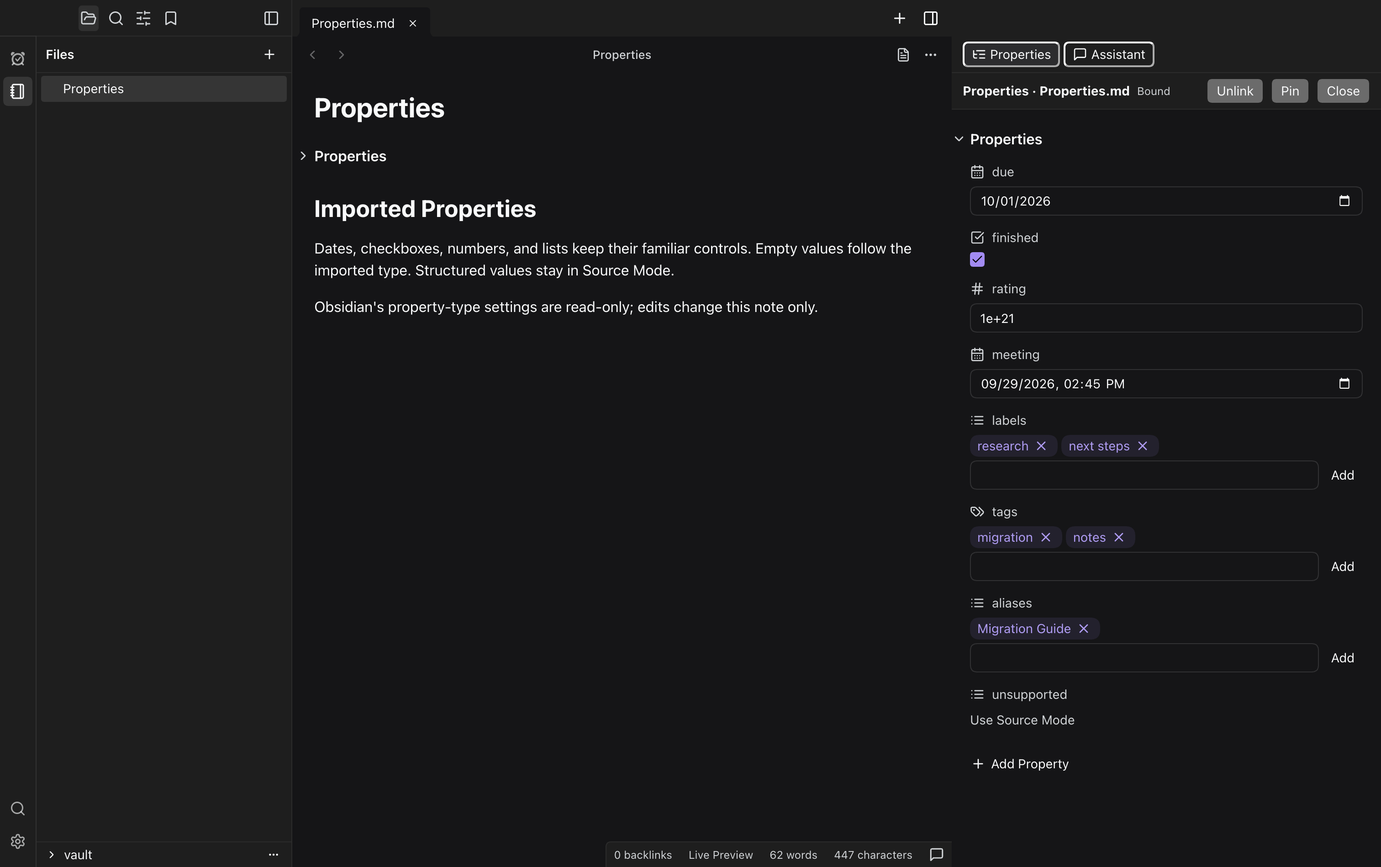
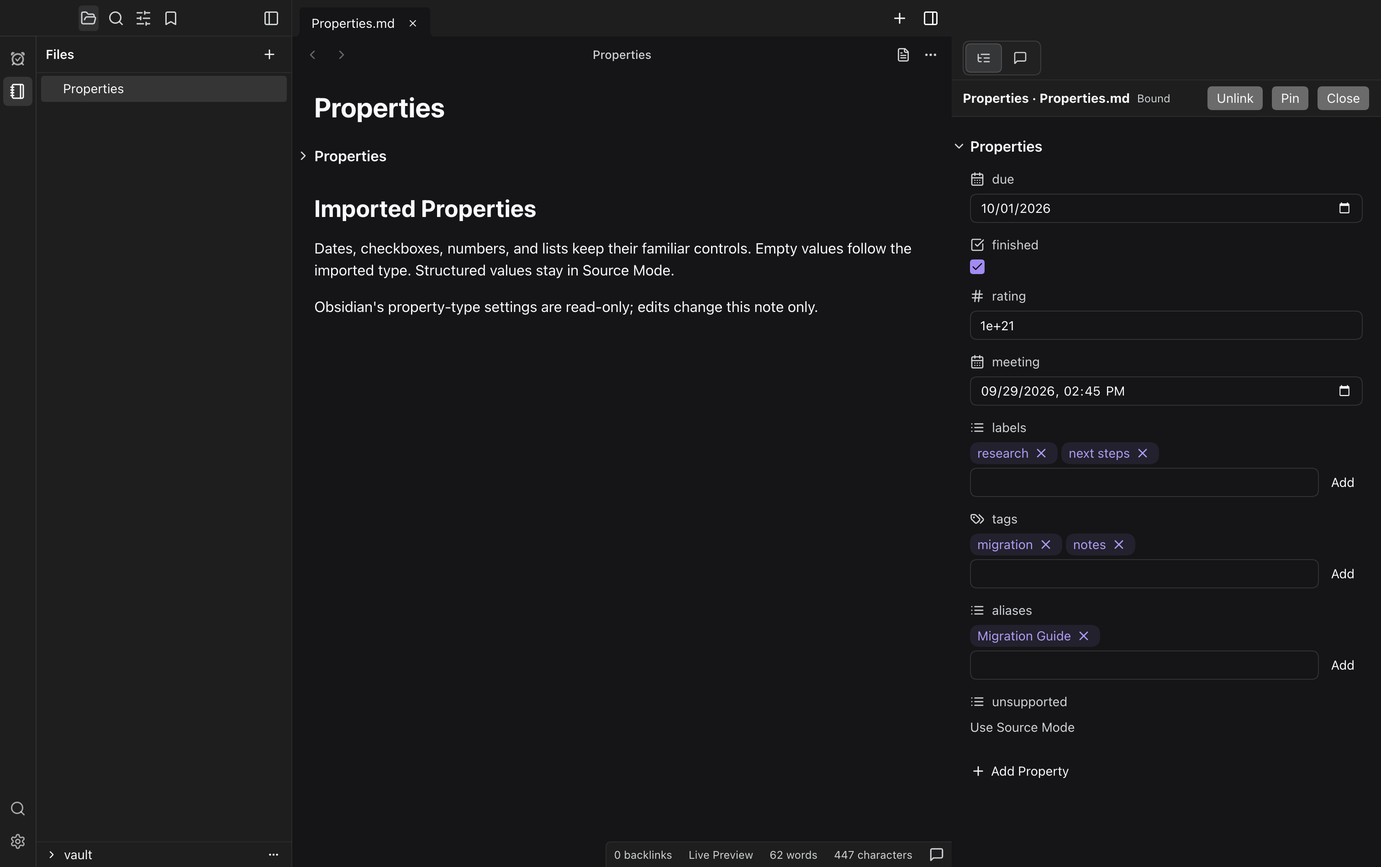
docs(tocktutor): refresh sidebar and loaded Reader captures

diff --git a/.agents/uiux/tocktutor/tocktutor.html b/.agents/uiux/tocktutor/tocktutor.html
@@ -151,7 +151,7 @@
     <div class="header-inner">
       <p class="eyebrow">Visual Design Audit · 66 Captures</p>
       <h1>TockTutor and Obsidian</h1>
-      <p class="intro">TockTutor screenshots were refreshed from the source-built Desktop at <code>3c579a86</code> on September 24, 2026; 23 note-facing images were recaptured after the Live Preview correction at <code>81f533aa</code>; 21 Live Preview images were retaken with purple links and task checks, readable list numbers, and 16px checkbox glyphs at <code>02e96f0e</code>. The Main Workspace and Source Mode images were retaken from a source-built Desktop working tree with Back and Forward in the note header below the tabs. The new lower-note pair shows Data, Code and Notes, and Small Heading in both apps. Assistant and Web Viewer captures remain from the prior batch; the supplemental Reader View image remains from an earlier capture because its focused retry stayed loading. Earlier Obsidian 1.13.7 reference images are unchanged except for the focused Image Viewer, Image Resizing, and Imported Property Controls retakes recorded in the proof. Note-based surfaces use the shared <a href="comparison.md"><code>comparison.md</code></a> content. Older screenshots predate the filename change. The refreshed TockTutor note menu shows the current filename; attachments use <code>Notes/Welcome.md</code>, and Base and Canvas use the same <a href="../../../plugins/tocktutor/parity/fixtures/vault/">parity fixture files</a>. Search uses <code>Markdown</code> in both apps. The assistant pair uses empty conversations beside the same note, with Claudian 2.3.0 in Obsidian. Product-specific controls and catalogs remain genuine, not fabricated matches. See the <a href="content-alignment.md">capture proof and limitations</a>. Click an image for full resolution.</p>
+      <p class="intro">TockTutor screenshots were refreshed from the source-built Desktop at <code>3c579a86</code> on September 24, 2026; 23 note-facing images were recaptured after the Live Preview correction at <code>81f533aa</code>; 21 Live Preview images were retaken with purple links and task checks, readable list numbers, and 16px checkbox glyphs at <code>02e96f0e</code>. The Main Workspace and Source Mode images were retaken from a source-built Desktop working tree with Back and Forward in the note header below the tabs. The new lower-note pair shows Data, Code and Notes, and Small Heading in both apps. Assistant and ordinary Web Viewer captures remain from the prior batch; the supplemental Reader View image was refreshed on October 1 with its article loaded and the corrected Live Preview paragraph visible. Earlier Obsidian 1.13.7 reference images are unchanged except for the focused Image Viewer, Image Resizing, and Imported Property Controls retakes recorded in the proof. Note-based surfaces use the shared <a href="comparison.md"><code>comparison.md</code></a> content. Older screenshots predate the filename change. The refreshed TockTutor note menu shows the current filename; attachments use <code>Notes/Welcome.md</code>, and Base and Canvas use the same <a href="../../../plugins/tocktutor/parity/fixtures/vault/">parity fixture files</a>. Search uses <code>Markdown</code> in both apps. The assistant pair uses empty conversations beside the same note, with Claudian 2.3.0 in Obsidian. Product-specific controls and catalogs remain genuine, not fabricated matches. See the <a href="content-alignment.md">capture proof and limitations</a>. Click an image for full resolution.</p>
       <p class="intro">September 29 additions: six source-built Desktop captures cover the image viewer, image resizing, Mermaid Reading and Live Preview, diagram editing, and imported property controls. These use separate <a href="migration-fixtures/Viewer.md">image-viewer</a>, <a href="migration-fixtures/Images.md">image-resizing</a>, <a href="migration-fixtures/Diagrams.md">diagram</a>, and <a href="migration-fixtures/Properties.md">property</a> fixtures; Image Viewer and Image Resizing pair the same Potala Palace photo; Diagram Editing and Imported Property Controls pair the same saved notes in TockTutor and installed Obsidian 1.13.7. The remaining two additions are TockTutor feature evidence, not matched Obsidian comparisons. See the <a href="../../../.beads/reports/2026-09-29-tocktutor-migration-review.md">migration review</a> and <a href="../../../.beads/reports/2026-09-30-tocktutor-image-alignment-and-diagram-reference.md">layout and diagram proof</a>, and <a href="../../../.beads/reports/2026-10-01-tocktutor-imported-properties-reference.md">imported property reference proof</a>. October 1 retake: Imported Property Controls now shows Properties beside the full-height note, with a fresh Obsidian comparison; the duplicate sidebar surface was removed. See the <a href="../../../.beads/reports/2026-10-01-tocktutor-imported-properties-retake.md">pair retake proof</a>.</p>
       <div class="capture-standard">1512 × 949 CSS pixels · 2× scale · 3024 × 1898 output · Built-in Dark Theme · No Active Skin</div>
       <div class="legend" aria-label="Comparison legend">
@@ -376,7 +376,7 @@
     </section>
 
     <section class="surface" id="web-viewer">
-      <p class="section-number">Surface 24</p><h2>Web Viewer</h2><p class="section-note">Both viewers open https://example.com/ and show Example Domain. TockTutor retains its isolated browsing and clipping panel; Obsidian uses its built-in Web Viewer. The supplemental TockTutor Reader View image is an earlier capture: Reader View stayed loading during this correction’s capture and focused retry.</p>
+      <p class="section-number">Surface 24</p><h2>Web Viewer</h2><p class="section-note">Both viewers open https://example.com/ and show Example Domain. TockTutor retains its isolated browsing and clipping panel; Obsidian uses its built-in Web Viewer. The <a href="screenshots/tocktutor-web-viewer-reader.png">current supplemental Reader View capture</a> shows the loaded article, enabled Page View control, and corrected Live Preview paragraph.</p>
       <div class="comparison">
         <figure class="tocktutor"><figcaption><span class="caption-title">TockTutor · Web Viewer</span><span class="badge">Current</span></figcaption><a class="screenshot-link" href="screenshots/tocktutor-web-viewer.png"><img src="screenshots/tocktutor-web-viewer.png" alt="TockTutor Web Viewer"></a></figure>
         <figure class="obsidian"><figcaption><span class="caption-title">Obsidian · Web Viewer</span><span class="badge">Reference</span></figcaption><a class="screenshot-link" href="screenshots/obsidian-web-viewer.png"><img src="screenshots/obsidian-web-viewer.png" alt="Obsidian Web Viewer with a local fixture page"></a></figure>
@@ -418,15 +418,15 @@
     </section>
 
     <section class="surface" id="imported-properties">
-      <p class="section-number">Surface 29</p><h2>Imported Property Controls</h2><p class="section-note">Properties now sits beside the full-height note in the shared right sidebar, with Properties and Assistant choices. The linked view follows the note and provides date, checkbox, exponent-form number, local date-time, list, tag, and alias controls. Structured YAML is labeled Use Source Mode rather than flattened. Both fresh captures reopen the identical saved note and imported types, with the duplicate in-note Properties group collapsed and each sidebar widened to 470 CSS pixels. Installed Obsidian keeps the structured value as an object with its native Type mismatch, expected Text warning; the controls and presentation are not identical.</p>
-      <p class="fixture-proof"><strong>Retake Proof:</strong> Reopened the previously verified 447-byte saved <code>Properties.md</code> and copied <code>.obsidian/types.json</code> in fresh isolated vaults. All eight rows are visible. Note bytes and the property-type registry remained unchanged; no note edits or new save test were performed during this retake.</p>
+      <p class="section-number">Surface 29</p><h2>Imported Property Controls</h2><p class="section-note">Properties now sits beside the full-height note in the shared right sidebar, with a compact icon-only Properties and Assistant toggle. The linked view follows the note and provides date, checkbox, exponent-form number, local date-time, list, tag, and alias controls. Structured YAML is labeled Use Source Mode rather than flattened. Both fresh captures reopen the identical saved note and imported types, with the duplicate in-note Properties group collapsed and each sidebar widened to 470 CSS pixels. Installed Obsidian keeps the structured value as an object with its native Type mismatch, expected Text warning; the controls and presentation are not identical.</p>
+      <p class="fixture-proof"><strong>Retake Proof:</strong> Reopened the previously verified 447-byte saved <code>Properties.md</code> and copied <code>.obsidian/types.json</code> in fresh isolated vaults. All eight rows are visible. Note bytes and the property-type registry remained unchanged. TockTutor now uses the already verified <a href="../../../.beads/reports/2026-10-01-tocktutor-sidebar-toggle.md">segmented-toggle capture</a>; no new note edits, save test, or Obsidian capture were performed for this gallery update.</p>
       <div class="comparison">
-        <figure class="tocktutor"><figcaption><span class="caption-title">TockTutor · Imported Properties</span><span class="badge">Current</span></figcaption><a class="screenshot-link" href="screenshots/tocktutor-imported-properties.png"><img loading="lazy" src="screenshots/tocktutor-imported-properties.png" alt="TockTutor Properties in the shared right sidebar beside the full-height note, with date, checkbox, exponent-form number, date-time, list, tag, alias, and Source Mode fallback controls"></a></figure>
+        <figure class="tocktutor"><figcaption><span class="caption-title">TockTutor · Imported Properties</span><span class="badge">Current</span></figcaption><a class="screenshot-link" href="screenshots/tocktutor-imported-properties.png"><img loading="lazy" src="screenshots/tocktutor-imported-properties.png" alt="TockTutor compact Properties and Assistant toggle above the shared right sidebar beside the full-height note, with date, checkbox, exponent-form number, date-time, list, tag, alias, and Source Mode fallback controls"></a></figure>
         <figure class="obsidian"><figcaption><span class="caption-title">Obsidian · Imported Properties</span><span class="badge">Reference</span></figcaption><a class="screenshot-link" href="screenshots/obsidian-imported-properties.png"><img loading="lazy" src="screenshots/obsidian-imported-properties.png" alt="Installed Obsidian Live Preview with the same saved note and File properties sidebar showing the date, checked checkbox, exponent-form number, date-time, lists, tags, alias, and structured-value warning"></a></figure>
       </div>
     </section>
 
-    <p class="footer">All screenshots use 1512 × 949 CSS pixels at 2× scale. Historical comparisons and the earlier Reader View capture retain their recorded provenance. Image Viewer, Image Resizing, Diagram Editing, and Imported Property Controls have same-content installed Obsidian references; the remaining two September 29 additions stay TockTutor-only feature evidence. Imported Property Controls was retaken on October 1 in both apps; the gallery ends at Surface 29. Closest Reference and Not Applicable labels do not imply missing product capability.</p>
+    <p class="footer">All screenshots use 1512 × 949 CSS pixels at 2× scale. Historical comparisons retain their recorded provenance; the supplemental Reader View capture is current. Image Viewer, Image Resizing, Diagram Editing, and Imported Property Controls have same-content installed Obsidian references; the remaining two September 29 additions stay TockTutor-only feature evidence. Imported Property Controls was retaken on October 1 in both apps; the gallery ends at Surface 29. Closest Reference and Not Applicable labels do not imply missing product capability.</p>
   </main>
 </body>
 </html>

diff --git a/tests/tocktutor-gallery.test.ts b/tests/tocktutor-gallery.test.ts
@@ -205,7 +205,8 @@ test('pairs Imported Property Controls with genuine Obsidian and the identical s
   assert.equal(refresh.samePropertyTypes, true)
   assert.equal(refresh.reusesExistingBuild, true)
   const current = proof.captures['tocktutor-imported-properties.png']
-  assert.equal(current.sourceCommit, refresh.sourceCommit)
+  assert.equal(current.sourceCommit, proof.sidebarToggleRefresh.sourceCommit)
+  assert.equal(current.sha256, proof.sidebarToggleRefresh.sourceCandidateSha256)
   assert.equal(current.visibleState.rightSidebar, true)
   assert.equal(current.visibleState.fullHeightNote, true)
   assert.equal(current.visibleState.rootColorScheme, 'dark')
@@ -218,6 +219,12 @@ test('pairs Imported Property Controls with genuine Obsidian and the identical s
   assert.deepEqual(current.visibleState.propertyTypes, native.visibleState.propertyTypes)
   assert.equal(current.registrySha256, native.registrySha256)
   assert.equal(current.registryUnchanged, true)
+  assert.equal(current.visibleState.segmentedToggle, true)
+  assert.deepEqual(current.visibleState.selector, [
+    { label: 'Properties', selected: 'true' },
+    { label: 'Assistant', selected: 'false' },
+  ])
+  assert.equal(current.visibleState.toggle.width, 86)
   assert.ok(refresh.cleanup.every((run: { stopped: boolean; remaining: number[] }) => run.stopped && run.remaining.length === 0))
   assert.equal(refresh.galleryVerification.bothImagesDecoded, true)
   assert.equal(refresh.galleryVerification.surface30Absent, true)
@@ -242,7 +249,7 @@ test('keeps unmatched migration surfaces distinct from the four focused comparis
     assert.equal(proof.captures[name].captureScope, 'real-desktop')
     const expectedCommit = name === 'tocktutor-image-viewer.png' ? additions.imageViewerRefresh.sourceCommit
       : name === 'tocktutor-image-resizing.png' ? additions.imageLayoutRefresh.sourceCommit
-        : name === 'tocktutor-imported-properties.png' ? additions.importedPropertiesRefresh.sourceCommit : additions.sourceCommit
+        : name === 'tocktutor-imported-properties.png' ? proof.sidebarToggleRefresh.sourceCommit : additions.sourceCommit
     assert.equal(proof.captures[name].sourceCommit, expectedCommit)
   }
   const fixtures = resolve(root, additions.fixtures)
@@ -330,13 +337,30 @@ test('records the scrolled lower Live Preview pair with both target sections vis
   }
 })
 
-test('records the corrected Live Preview paragraph and flags the unreplaced Reader View image', () => {
+test('records corrected Live Preview text and a loaded current Reader View capture', () => {
   const expected = 'Use bold, italic, bold italic, strikethrough, highlighting, and inline code in one paragraph.'
   const corrected = Object.entries(proof.captures).filter(([, capture]) => (capture as { visibleState?: { renderedParagraph?: string } }).visibleState?.renderedParagraph === expected)
-  assert.equal(corrected.length, proof.livePreviewCorrection.updatedCount)
+  assert.equal(corrected.length, proof.livePreviewCorrection.updatedCount + 1)
   assert.ok(corrected.some(([name]) => name === 'tocktutor-tag-tab-polish.png'))
-  assert.equal(proof.livePreviewCorrection.readerView.status, 'earlier-capture')
-  assert.notEqual(proof.captures['tocktutor-web-viewer-reader.png'].sourceCommit, proof.livePreviewCorrection.sourceCommit)
+  const reader = proof.captures['tocktutor-web-viewer-reader.png']
+  const refresh = proof.readerViewRefresh
+  assert.equal(refresh.status, 'verified-current')
+  assert.equal(reader.sourceCommit, refresh.sourceCommit)
+  assert.equal(reader.contentSha256, sha256(readFileSync(resolve(root, 'comparison.md'))))
+  assert.equal(reader.visibleState.renderedParagraph, expected)
+  assert.equal(reader.visibleState.readerArticleVisible, true)
+  assert.equal(reader.visibleState.pageViewEnabled, true)
+  assert.equal(reader.visibleState.readerTitle, 'Example Domain')
+  assert.match(reader.visibleState.readerContent, /This domain is for use in documentation examples/u)
+  assert.equal(reader.visibleState.rootColorScheme, 'dark')
+  assert.equal(reader.visibleState.rootSkin, null)
+  assert.equal(reader.visibleState.bodySkin, null)
+  assert.deepEqual(reader.geometry, { width: 1512, height: 949, deviceScaleFactor: 2 })
+  assert.equal(proof.livePreviewCorrection.readerView.resolvedBy, 'readerViewRefresh')
+  assert.equal(refresh.cleanup.stopped, true)
+  assert.deepEqual(refresh.cleanup.remaining, [])
+  assert.deepEqual(refresh.runtimeErrors, [])
+  assert.doesNotMatch(html, /Reader View.+(?:earlier capture|stayed loading)|earlier Reader View capture/u)
 })
 
 test('tracks only the focused bullet-and-link retake', () => {

diff --git a/.agents/uiux/tocktutor/content-alignment.md b/.agents/uiux/tocktutor/content-alignment.md
@@ -1,6 +1,12 @@
 # TockTutor and Obsidian Content Alignment
 
-## Imported Property Controls Pair Retake — 2026-10-01
+## Current Sidebar and Reader Captures — 2026-10-01
+
+Updated only `tocktutor-imported-properties.png` and `tocktutor-web-viewer-reader.png`; all 71 other screenshots, including every Obsidian reference, remain unchanged. Surface 29 now uses the unaltered, already verified Properties screenshot from `tockteam-ph35` at `1e3174b3`, with the compact icon-only toggle, all eight imported rows, the unchanged 447-byte saved note/type registry, and 470-pixel sidebar. No additional Properties or Obsidian launch was needed.
+
+A fresh guarded Desktop run loaded the actual public `https://example.com/` article in Reader View. Before capture, Playwright verified visible article text, the enabled Page View control, and the exact corrected Live Preview paragraph behind it. The 1,324-byte shared `comparison.md` remained unchanged. Both pictures use built-in dark/no skin, 1512 × 949 CSS pixels at DPR 2, and unaltered 3024 × 1898 PNGs. Capture-time and final session errors are zero; two existing startup warnings are recorded. All 24 recorded Reader app/runtime PIDs stopped and Playwright detached with no sessions. No account, sign-in, native-effect, source, build, or staging changes occurred. Current metadata is in `readerViewRefresh` and `sidebarToggleRefresh`; historical attempts below remain explicitly historical. See [the gallery follow-up report](../../../.beads/reports/2026-10-01-tocktutor-gallery-followup.md).
+
+## Historical Imported Property Controls Pair Retake — 2026-10-01
 
[1 lines of base64/hex data omitted]
 
@@ -114,7 +120,7 @@ Only `tocktutor-tag-tab-polish.png` was retaken. Its verified 1512 × 949 CSS-pi
 
 The gallery exposed three style gaps in TockTutor’s Live Preview: links inherited white, ordered markers inherited Crepe’s 12%-opacity outline color, and task icons inherited that same dim fill. At `02e96f0e`, the shared Crepe utility styles links and checked task icons with the Markdown purple, number labels with the note text, and unchecked outlines at 55% text opacity. Crepe draws a 18-unit checkbox inside a 24-unit SVG, so the SVG is 21⅓px wide to show a 16px glyph matching the frontmatter checkbox.
 
-At 1512 × 949 CSS pixels and 2× scale, Playwright verified computed link, marker, and icon colors; 16px visible task/frontmatter checkbox sizes; dark theme/no skin; and no renderer or console errors. Twenty-one verified Live Preview screenshots were transactionally replaced (3024 × 1898 PNGs), with per-image hashes and computed-style evidence in `content-alignment.json`. All 28 Obsidian images were byte-identical; both owned Electron trees stopped without descendants. Source and Reading View screenshots were excluded because they have no Live Preview controls; the Assistant button was absent in this attempt, and Web Viewer was outside this focused batch, so their earlier images remain. No failed-attempt image was published. The supplemental Reader View limitation below remains unresolved.
+At 1512 × 949 CSS pixels and 2× scale, Playwright verified computed link, marker, and icon colors; 16px visible task/frontmatter checkbox sizes; dark theme/no skin; and no renderer or console errors. Twenty-one verified Live Preview screenshots were transactionally replaced (3024 × 1898 PNGs), with per-image hashes and computed-style evidence in `content-alignment.json`. All 28 Obsidian images were byte-identical; both owned Electron trees stopped without descendants. Source and Reading View screenshots were excluded because they have no Live Preview controls; the Assistant button was absent in this attempt, and Web Viewer was outside this focused batch, so their earlier images remain. No failed-attempt image was published. The supplemental Reader View limitation below was resolved by the October 1 capture recorded at the top of this report.
 
 ## Live Preview Correction — 2026-09-24
 
@@ -122,7 +128,7 @@ The TockTutor vault note and the gallery’s `comparison.md` have the same SHA-2
 
 After rebuilding and refreshing the staged runtime, 23 note-facing TockTutor captures were replaced only after Playwright verified the visible first paragraph reads “Use bold, italic, bold italic, strikethrough, highlighting, and inline code in one paragraph.” without a footnote inserted. The images are 3024 × 1898 pixels from 1512 × 949 CSS pixels at 2× with the built-in dark theme and no skin; route, note, mode, console/page errors, and renderer events were checked. All 28 Obsidian images remained byte-identical. Both owned Electron process trees were stopped with no remaining descendants. Per-image hashes and evidence are in `content-alignment.json`.
 
-**Remaining limitation:** The supplemental `tocktutor-web-viewer-reader.png` was not replaced. Reader View remained loading after the final-batch attempt and one focused retry, despite Example Domain loading in the ordinary Web Viewer. The earlier Reader View PNG and its original metadata remain intact; it still shows the old Live Preview text behind the Reader View panel. No failed or loading capture was published. A future corrected Reader View capture must verify the article is visible and the Page View control is enabled before replacing it.
+**Historical limitation, now resolved:** The September attempt did not replace `tocktutor-web-viewer-reader.png`: Reader View remained loading after the final-batch attempt and one focused retry, so no failed image was published. The October 1 capture now verifies the loaded article, enabled Page View control, and corrected paragraph before replacing that image. Its current metadata and cleanup are recorded in `readerViewRefresh`; the earlier loading observation is retained as history.
 
 ## Screenshot Refresh — 2026-09-24
 

diff --git a/.beads/reports/2026-10-01-tocktutor-gallery-followup.md b/.beads/reports/2026-10-01-tocktutor-gallery-followup.md
@@ -1,0 +1,42 @@
+# TockTutor Gallery Follow-Up
+
+Issues: `tockteam-a17j`, `tockteam-lmy5`, `tockteam-10s9`. The user selected **Update the Picture** for the completed sidebar, requested the Reader View refresh, and permitted closing the flash issue. No real external-app opening or account work was authorized.
+
+**Total new confirmed product findings: 0.** Both allowlisted pictures are published and final checks pass.
+
+## Published Scope
+
+- Surface 29: promote the unaltered, already certified `tocktutor-sidebar-toggle-properties.png` from `tockteam-ph35`/`1e3174b3` into `tocktutor-imported-properties.png`. It shows the compact 86-pixel icon toggle, Properties selected, all eight rows, collapsed in-note properties, and 470-pixel sidebar. The saved note remains 447 bytes and its imported types match the existing Obsidian reference. No new Properties or Obsidian launch was needed.
[1 lines of base64/hex data omitted]
+- Only those two allowlisted PNGs and their captions/proof are updated. All 71 other screenshots, including every Obsidian reference, remain unchanged. Counts remain 29 surfaces, 66 displayed pictures, 73 PNG files, and seven supplements. Reader View has a direct supplemental link, not a new comparison row.
+
+## Capture Evidence
+
+Both images are real Desktop captures at **1512 × 949 CSS pixels**, **2×**, and **3024 × 1898 PNG pixels**, with explicit built-in dark mode and no root/body skin. No image rescaling, cropping, UI fabrication, or styling overrides were applied. The existing source/build/staging and three protected user-owned paths were left unchanged.
+
+The new Reader run used generic Electron through `extended_display` on display **17**, an isolated profile/vault, preserved `HOME`, and the guard's mock Keychain. Playwright attached only to its returned owned loopback CDP endpoint. Capture-time errors and the final session console errors are zero; two pre-existing startup warnings are retained. The existing Host fetched public `https://example.com/` for Page and Reader views. No model prompt, credentials, sign-in, revocation, clipboard, or native external-app effect was exercised.
+
+Two capture-check issues were caught before publication: hidden Markdown source was mistakenly counted as visible text, and Playwright's screenshot defaults produced a 1× PNG despite the emulated DOM metric. The final check uses rendered `innerText` with layout-whitespace normalization and Playwright-owned CDP `Page.captureScreenshot`, verifying both pre/post CSS/DPR metrics and actual PNG dimensions. The rejected candidates were never published. Reader View itself loaded successfully; no product fix was necessary.
+
+The Reader app/runtime tree stopped explicitly: root PID **40289**, **24 recorded PIDs**, remaining **[]**. Playwright detached and lists no sessions. The source Properties capture has its own complete cleanup certificate in the prior sidebar proof.
+
+## Verification
+
+The existing gallery regression was updated first; RED produced exactly two expected failures for the outdated toggle and Reader evidence. Final gallery/content checks pass **16/16**; root typecheck, tracked build-manifest check, and owned-path diff check pass. A bounded guarded Electron gallery check verifies 29 surfaces/66 displayed pictures, current captions, the Reader link, and both new PNGs decoding at 3024 × 1898. Runtime errors and failed requests are empty. The first gallery check was too early for its lazy-loaded image; the retry waits for image completion and passes. Both gallery roots (42901, 43213), servers (42895, 43206), and their recorded descendants stopped; both ports closed.
+
+```sh
+node --test tests/tocktutor-gallery.test.ts tests/tocktutor-content-alignment.test.ts
+pnpm run typecheck
+node scripts/tocktutor-build-manifest.mjs --check
+```
+
+The current existing app build is reused; no source edits, rebuild, broad app smoke, or baseline refresh outside the two named pictures is part of this follow-up.
+
+## Issue Decisions
+
+- `a17j`: completed replacement control remains owned by closed `ph35`; this follow-up updates its original Surface 29 picture request rather than rebuilding the sidebar.
+- `10s9`: confirmed by its title/description to be the composer/model-picker flash issue. Closed with the user's explicit updated acceptance, based on the existing fix and passing focused regressions. Fresh delayed-picker Desktop proof is not claimed.
+- `lmy5`: its outstanding Reader capture is now published with loaded-article/paragraph proof and passing gallery checks; complete and close.
+- `yoam`: unchanged. “Open in Default App” means asking macOS to open the saved Markdown file in its associated app, such as Obsidian or a text editor. Actual external-app launch remains uncertified and was not attempted here.
+
+Per-image state, hashes, cleanup, and final gallery proof are in `2026-10-01-tocktutor-gallery-followup.json`; current gallery metadata is in `content-alignment.json`.
